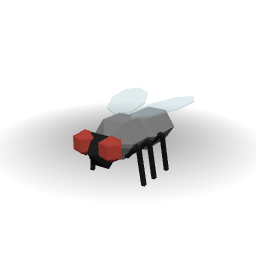
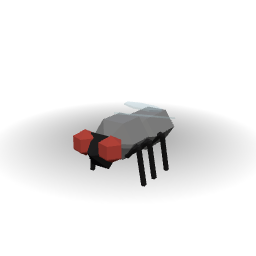
Fly and mosquito: fix final-review findings (scissor wings, hovering wings, notes)
Fable final review, measured on the exported GLBs:
- the mosquito's folded wings crossed like scissors because the wing pivot
  was 1 mm in front of the wing root; the pivot is now at the root (the
  flap axis is lengthwise, so Fly is unchanged) and the right wing lies
  0.12 mm above the left
- the housefly's wings hovered as a wide plate; they now overlap over the
  abdomen (right wing 0.5 mm above the left) and the tail end drops 34
  degrees to follow it; the mosquito's drops 24
- NOTES.md section for the change, the insects-2 brief says the
  mosquito's legs move, thumbnails and GLBs rebuilt

Changed region(s): [[0.4062, 0.3438, 0.7812, 0.4688]]

diff --git a/art/scripts/insect_anim.py b/art/scripts/insect_anim.py
@@ -90,19 +90,19 @@ def idle_flyer(rig, t, rest=6.0, fan=4.0):
 
 def fold_wings(rig, prefix="Wing", back=72.0, down=14.0, spread=0.0, lift=0.0, gap=0.0):
     """Wings laid back along the body, as a fly or mosquito holds them when landed: swung back about Z, then the tail end dropped about X to follow the back.
-    Folded, the two wings lie in parallel planes and would cross on the midline, so they are kept apart by `spread` (mm outward, about the wing's width: side by side
-    like a roof) or by `gap` (the right wing that many mm above the left, overlapping like a landed fly's); `lift` raises both."""
+    The two folded wings overlap over the abdomen like a landed fly's, so they never share a plane: the right one is `gap` mm above the left one. `down` is how far
+    the tail end drops (follow the abdomen's slope); `spread` moves each wing outward (mm) and `lift` raises both, if one is needed."""
     for name, s in sides(rig, prefix):
         turn(rig, name, z=s * back, shift=(s * spread * MM, 0, (lift + (gap if s < 0 else 0.0)) * MM))
         turn(rig, name, x=-down)
 
 
-def idle_folded(rig, t, spread=0.0, lift=0.0, gap=0.0):
+def idle_folded(rig, t, down=14.0, spread=0.0, lift=0.0, gap=0.0):
     """Landed: wings folded back over the abdomen (a small shiver), the antennae feel about (a housefly has none)."""
     w = 2 * math.pi * t
     turn(rig, "Body", x=1.2 * math.sin(w))
     antennae(rig, w)
-    fold_wings(rig, back=72.0 + 2.0 * math.sin(w), spread=spread, lift=lift, gap=gap)
+    fold_wings(rig, back=72.0 + 2.0 * math.sin(w), down=down, spread=spread, lift=lift, gap=gap)
 
 
 def hang_legs(rig, x=70.0, droop=50.0):
@@ -210,8 +210,8 @@ MOTIONS = {
     "butterfly": (("Idle", idle_butterfly, 48, 24), ("Fly", lambda r, t: fly(r, t, 38.0, 14.0, 0.0015, 3.0), 8, 24)),
     "moth": (("Idle", idle_flyer, 48, 24), ("Fly", lambda r, t: fly(r, t, 34.0, 12.0, 0.001, 2.5), 6, 24)),
     "buzz": (("Idle", idle_flyer, 48, 24), ("Fly", lambda r, t: fly(r, t, 38.0, 12.0, 0.0, 0.0), 4, 24)),
-    "fold": (("Idle", lambda r, t: idle_folded(r, t, spread=1.12), 48, 24), ("Fly", lambda r, t: fly(r, t, 38.0, 12.0, 0.0, 0.0), 4, 24)),
-    "mosquito": (("Idle", lambda r, t: idle_folded(r, t, lift=0.25, gap=0.25), 48, 24), ("Fly", lambda r, t: fly_hanging_legs(r, t, 38.0, 12.0), 4, 24)),
+    "fold": (("Idle", lambda r, t: idle_folded(r, t, down=34.0, gap=0.5), 48, 24), ("Fly", lambda r, t: fly(r, t, 38.0, 12.0, 0.0, 0.0), 4, 24)),
+    "mosquito": (("Idle", lambda r, t: idle_folded(r, t, down=24.0, gap=0.12), 48, 24), ("Fly", lambda r, t: fly_hanging_legs(r, t, 38.0, 12.0), 4, 24)),
     "dragonfly": (("Idle", idle_flyer, 48, 24), ("Fly", lambda r, t: fly(r, t, 26.0, 4.0, 0.0, 0.0, counter=True), 6, 24)),
     "walk": (("Idle", idle_walker, 48, 24), ("Walk", walk, 24, 24)),
     "spider": (("Idle", idle_spider, 48, 24), ("Walk", lambda r, t: walk(r, t, swing=15.0, lift=14.0), 24, 24)),

diff --git a/art/scripts/insects.py b/art/scripts/insects.py
@@ -463,7 +463,7 @@ def mosquito():
     blob(p, "black", (0, -1.8, 2.3), (0.42, 0.42, 0.42), n=6, rings=1)                      # head
     rod(p, "black", (0, -2.1, 2.2), (0, -4.1, 1.9), 0.12)                                   # the proboscis
     for s in (-1, 1):
-        with flap(p, "Wing", s, (s * 0.25, -0.6, 2.6)):
+        with flap(p, "Wing", s, (s * 0.25, 0.4, 2.6)):                                      # at the wing's root, so the folded wing turns about it (the flap axis is lengthwise: y does not matter)
             wing(p, "clear_glass", None, ellipse_pts(1.6, 0.4, 1.6, 0.5), 2.7, tilt=15, side=s, thick=0.06)
     antennae(p, "black", (0.2, -1.9, 2.5), (0.6, -3.2, 3.0), 0.07)
     legs(p, "black", 0.36, (-1.1, -0.2, 0.8), 2.0, 2.1, 1.8, 0.09, dy=0.6)

diff --git a/NOTES.md b/NOTES.md
@@ -218,7 +218,7 @@ Fable final review: no blocking findings, 4 low ones, fixed in a fourth commit: 
 ## Insects, batch 1 of the wider cast (2026-10-24, branch `insects-1`)
 Issue #80 (the cast comes from the game Grounded, found by a web search; the comment on #80 lists the creatures and what is missing). Eight new rigged insects in `art/scripts/insects.py` (`StinkBug`, `Housefly`, `Mosquito`, `Wasp`, `Cockroach`, `Cricket`, `Mantis`, `Earwig`), added to the `insects` group in `tools/catalog.py` and built with `build_site_assets.py` (`GROUPS=["insects"]`, `ONLY=[...]` the eight keys), 300 to 530 triangles each, clips Idle plus Walk, Fly or Hop. Area names for the colour parts are in `art/data/part_names.json`. Brief: `docs/assets/briefs/insects-2.md`.
 **Built and looked at:** all eight built in Blender 5.2.3 with their clips (the build lists the clips; the animations themselves were not played), bounding boxes read from the build facts (feet at z = 0 within 0.4 mm), the eight thumbnails viewed in one sheet. **Not done:** playing the clips in the site viewer, `audit.py`, a check of the sizes against specimens. The rest of the list (aphid, beetles, arachnids, centipede, millipede, grub, snail, bumblebee, hornet, gnat) is in the brief and on #80.
-Opus first review (it read the GLBs with its own glTF reader and measured the gaps between parts): 15 findings, fixed in a second commit: the mantis had six walking legs plus the forelegs (now two pairs of walking legs), its tibiae pointed forward past the head (now folded back under the femur) and its head and prothorax floated off the abdomen (the prothorax now runs from the head to the abdomen); the housefly and wasp wings floated 0.5 to 1 mm above the thorax, the earwig legs and pincers, the cricket front legs and antennae and every antenna base were 0.1 to 0.9 mm outside the body (moved in), the cockroach cerci floated; sizes: the mosquito was 80% over its 6 mm (scaled to 0.6), the housefly and earwig 30% over (scaled to 0.8), the cockroach 20% under (scaled to 1.2, its antennae now as long as its body); the README count and range and the brief wording. Not changed: the wings of the fly and mosquito stand out sideways instead of folding back over the abdomen (the honeybee's existing style), the housefly's hind legs and the mantis's last pair attach to the abdomen, the cricket has no cerci, the build groups (`beetles`, `hoppers`) of the stink bug, cockroach, earwig and mantis only matter for the `INSECT_LIST` filter.
+Opus first review (it read the GLBs with its own glTF reader and measured the gaps between parts): 15 findings, fixed in a second commit: the mantis had six walking legs plus the forelegs (now two pairs of walking legs), its tibiae pointed forward past the head (now folded back under the femur) and its head and prothorax floated off the abdomen (the prothorax now runs from the head to the abdomen); the housefly and wasp wings floated 0.5 to 1 mm above the thorax, the earwig legs and pincers, the cricket front legs and antennae and every antenna base were 0.1 to 0.9 mm outside the body (moved in), the cockroach cerci floated; sizes: the mosquito was 80% over its 6 mm (scaled to 0.6), the housefly and earwig 30% over (scaled to 0.8), the cockroach 20% under (scaled to 1.2, its antennae now as long as its body); the README count and range and the brief wording. Not changed then (folded back when landed since 2026-10-26, see "Landed fly and mosquito"): the wings of the fly and mosquito stand out sideways instead of folding back over the abdomen (the honeybee's existing style), the housefly's hind legs and the mantis's last pair attach to the abdomen, the cricket has no cerci, the build groups (`beetles`, `hoppers`) of the stink bug, cockroach, earwig and mantis only matter for the `INSECT_LIST` filter.
 Fable final review: nothing blocking, 8 findings, fixed in a third commit: the mantis's raptorial forelegs were half their real size (the femur is now 13 mm, 2.2 mm wide, the tibia folded back under it), the housefly, mosquito and wasp lost no `flying` tag (added) and the cockroach lost `tiny`, the earwig is 14 mm in the brief, the module docstring lists the new insects, the cockroach's belly now stands 1 mm clear of the floor (the Walk bob no longer sinks it), and the mantis note (both walking pairs attach to the abdomen, not only the last). Not changed: wing roots touch the thorax only at the midline (invisible at these scales), femurs 0.03 to 0.1 mm off the faceted surface of the cockroach and earwig, the Fly and Hop clips' fixed body bob (older code).
 
 ## Insects, batch 2 of the wider cast (2026-10-24, branch `insects-2`)
@@ -257,6 +257,9 @@ Walk, Run, Sit and Trot hitched at the loop point because the first keys of ever
 
 ## Fly clips: still bodies (2026-10-25, issue #96)
 `insect_anim.fly`: the honeybee, wasp, housefly, mosquito and dragonfly no longer bob or pitch (bob and pitch 0; the Body bone is still, only the wings beat); the butterfly bobs 3 mm (was 6) and pitches 3 degrees (was 5), the moth 2 mm (was 4) and 2.5 degrees (was 4). Reasoning in `docs/assets/briefs/insects.md`. Rebuilt the seven GLBs; the exported Body channels were measured (0 for the five, 3 and 2 mm for the other two). The wing rate is unchanged (stylised, 4 to 8 frames at 24 fps). Not looked at in the viewer.
+
+## Landed fly and mosquito (2026-10-26)
+Housefly and Mosquito: the Idle clip (the pose the viewer opens on and the thumbnail) now folds the wings back along the abdomen, as the insects hold them landed; the Fly clip is unchanged. New motions `fold` (housefly) and `mosquito` in `art/scripts/insect_anim.py` (`idle_folded`, `fold_wings`, `hang_legs`). The folded wings lie in parallel planes, so the right one is held `gap` mm above the left (0.5 for the fly, 0.12 for the mosquito) and the tail end drops with the abdomen's slope. The mosquito's legs are moving pieces now (`Leg_L0` to `Leg_R2`, six more bones; they were fixed to the body) and its Fly clip trails them back 70 degrees and droops them 50 so they clear the wings at the bottom of the stroke; its wing pivot moved to the wing root (the flap axis is lengthwise, so the Fly clip did not change). The wings and legs of both were checked on the exported GLBs at every key of both clips (a skinning sampler: no wing-wing or wing-leg contact in Idle, none in the mosquito's Fly either). Opus first review and Fable final review, both measured on the GLBs; their findings (wings crossing like scissors, wings through the thighs, legs swung forward, stale thumbnails, wings hovering) are fixed. **Not done:** the honeybee and wasp still hold their wings out when landed; the wing roots of both overlap by 0.02 mm in the Fly clips (older); the clips were not played in the site viewer.
 
 ## Scope (2026-10-25)
 Decided by the owner: the library takes generic things of any kind, including extinct and fantasy animals and creatures, weapons and military vehicles of any era (medieval, modern, sci-fi; always generic by type and low-poly, never a named make or model, no trademarked designs), and garbage and junk. Out: brands and trademarked designs, characters from other works, scanned or realistic models, and sexually explicit content (adult material, if wanted, is a separate project, not this public repository). The game's catalogue (`docs/from-game/art/prop-catalogue.md`) says real weapons are not catalogued; that was the game's rule and no longer applies here. The groups are tracked as issues (#117 to #148); the README no longer lists them.

diff --git a/docs/assets/briefs/insects-2.md b/docs/assets/briefs/insects-2.md
@@ -26,7 +26,7 @@ The list comes from the creatures of the game Grounded and Grounded 2 (see the c
 | Jumping spider (`GN_JumpingSpider_01`) | about 8 mm: stocky black cephalothorax, two huge front eyes, brown abdomen with a chevron, short legs | Idle, Walk (eight legs) |
 
 ## Known limits
-Plain blobs and rods (flat faceted style); the scorpion's tail and the weevil's snout are static (only the weevil's antennae move), the arachnids' idle moves only the front pair of legs; the flyers' legs do not move, the walkers' legs are three simple jointed rods, the mantis's raptorial forelegs are static (the walk clip moves its two pairs of walking legs), the fly and mosquito wings are single flat ellipses and the wasp has two ellipses a side. Sizes were taken from the usual field-guide lengths, not measured on a specimen.
+Plain blobs and rods (flat faceted style); the scorpion's tail and the weevil's snout are static (only the weevil's antennae move), the arachnids' idle moves only the front pair of legs; the housefly's legs do not move (the mosquito's trail in its Fly clip), the walkers' legs are three simple jointed rods, the mantis's raptorial forelegs are static (the walk clip moves its two pairs of walking legs), the fly and mosquito wings are single flat ellipses and the wasp has two ellipses a side. Sizes were taken from the usual field-guide lengths, not measured on a specimen.
 
 ## Still to do from #80
 Tick, centipede, millipede, grub, snail, bumblebee, hornet, gnat, black widow, tarantula; variants (black and red ants, more butterflies) as paints.
